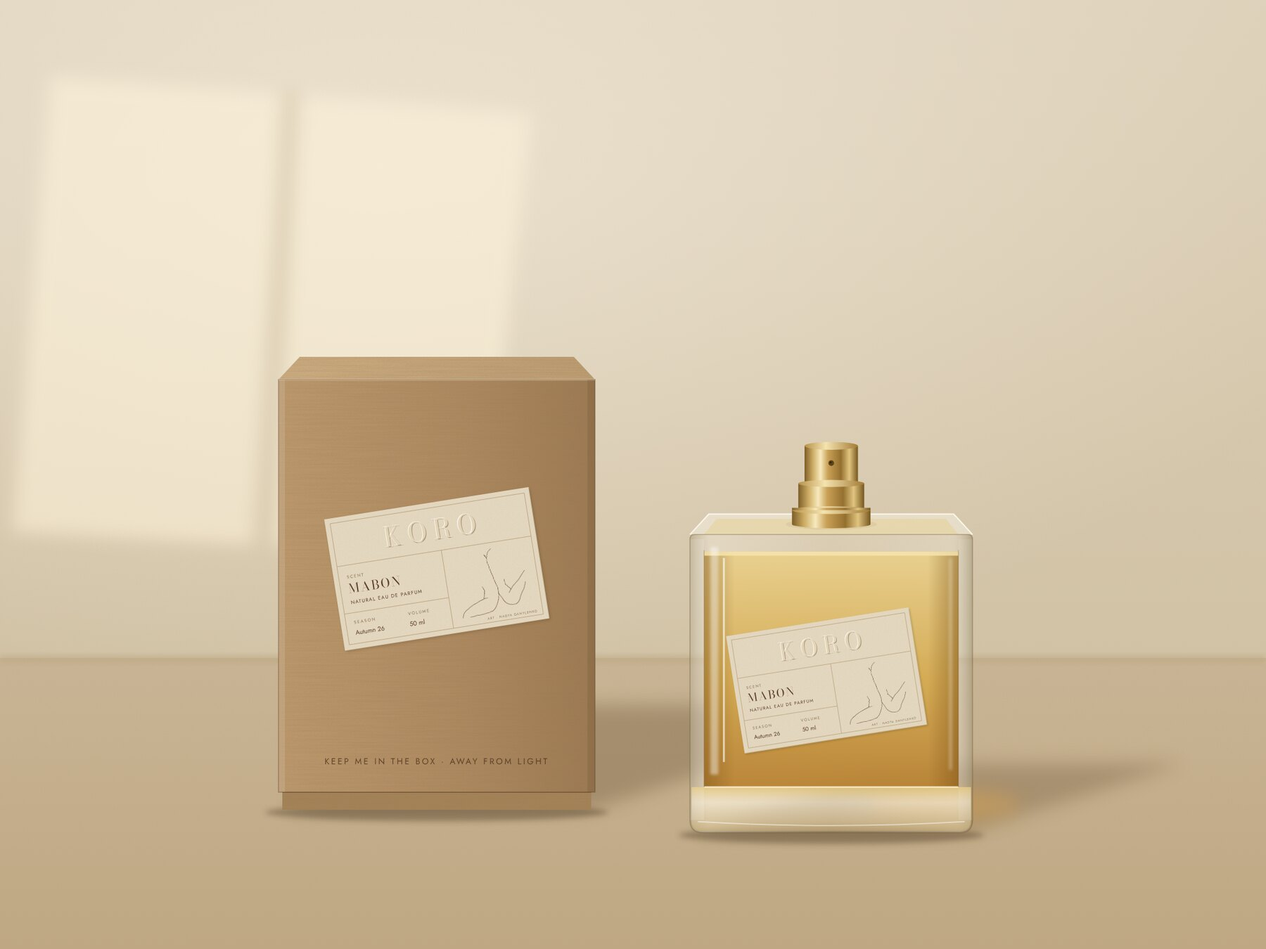
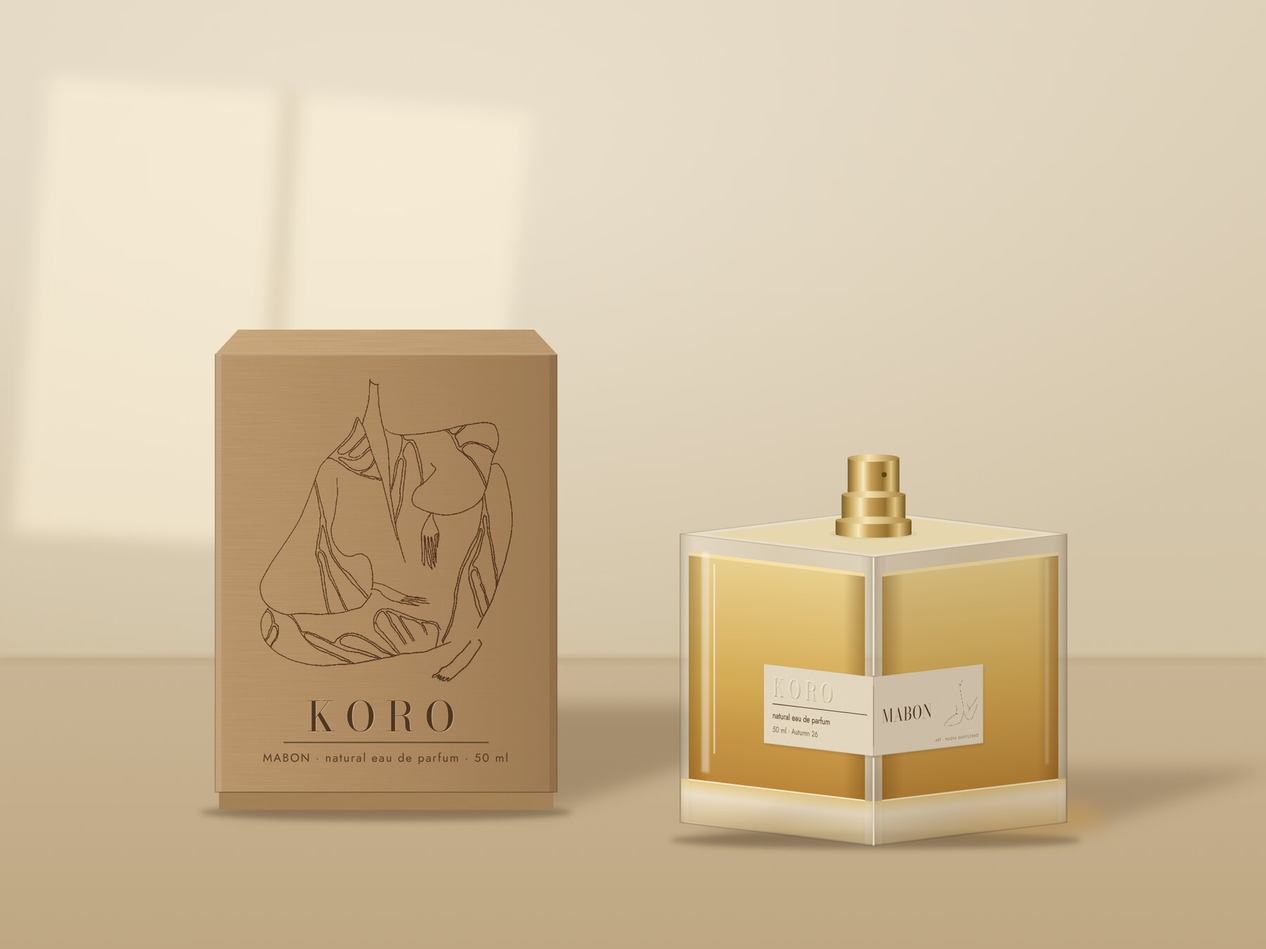
Wrap the sticker around the bottle's corner and print Nadya's art on the box
Following Nasomatto: the square bottle is shown corner-on with a straight
sticker folded around the front edge (KORO and details on one face, scent
name and Nadya's line on the other). The kraft box lid carries Nadya's
drawing in brown ink with KORO beneath. Replaces the angled sticker.

Claude-Session: https://claude.ai/code/session_01LqzMwEUPk3cGfVNeK7XBCw

Changed region(s): [[0.1556, 0.3422, 0.4978, 0.8711], [0.5289, 0.4667, 0.9644, 0.9022], [0.3422, 0.4356, 0.3733, 0.4667]]

diff --git a/design/packaging/render.html b/design/packaging/render.html
@@ -82,81 +82,152 @@ const DEFS = `
   <filter id="hl" x="-50%" y="-50%" width="200%" height="200%"><feGaussianBlur stdDeviation="1.6"/></filter>
 </defs>`;
 
-// ---------- label (beige, embossed KORO, Nadya line art) ----------
-// drawn in a 280 x 180 box, scaled by caller
-function label(scent = "MABON", vol = "50 ml") {
-  const W = 280, H = 180, ink = "#5a3d2b", rule = "#b7a07a";
-  const emb = (txt, x, y, size, ls) => `
-    <text x="${x + .9}" y="${y + 1.1}" text-anchor="middle" class="didot" font-size="${size}" letter-spacing="${ls}" fill="#7d6644" fill-opacity=".55">${txt}</text>
-    <text x="${x - .8}" y="${y - .8}" text-anchor="middle" class="didot" font-size="${size}" letter-spacing="${ls}" fill="#fffaf0" fill-opacity=".95">${txt}</text>
-    <text x="${x}" y="${y}" text-anchor="middle" class="didot" font-size="${size}" letter-spacing="${ls}" fill="#e2d4b8">${txt}</text>`;
+// ---------- corner-wrapped sticker halves (Nasomatto-style placement) ----------
+// each half is 170 x 88 in real face units; the left half ends exactly at the bottle's front corner
+const INK = "#4a3020", RULE = "#a48c66";
+function emb(txt, x, y, size, ls, anchor = "start") {
   return `
-  <g>
-    <rect x="1.6" y="2.2" width="${W}" height="${H}" fill="#4f3c22" opacity=".26" filter="url(#hl)"/>
-    <rect width="${W}" height="${H}" fill="#e9ddc6" filter="url(#paper)"/>
-    <rect x="7" y="7" width="${W - 14}" height="${H - 14}" fill="none" stroke="${rule}" stroke-width=".7"/>
-    ${emb("KORO", W / 2 + 3, 50, 36, 8)}
-    <line x1="7" y1="66" x2="${W - 7}" y2="66" stroke="${rule}" stroke-width=".7"/>
-    <line x1="150" y1="66" x2="150" y2="${H - 7}" stroke="${rule}" stroke-width=".7"/>
-    <text x="18" y="84" class="sans" font-size="5.8" letter-spacing="1.3" fill="#8b7656">SCENT</text>
-    <text x="18" y="104" class="didot" font-size="17" letter-spacing="2" fill="${ink}">${scent}</text>
-    <text x="18" y="119" class="sans" font-size="6.6" letter-spacing="1" fill="${ink}">NATURAL EAU DE PARFUM</text>
-    <line x1="7" y1="131" x2="150" y2="131" stroke="${rule}" stroke-width=".7"/>
-    <text x="18" y="146" class="sans" font-size="5.8" letter-spacing="1.3" fill="#8b7656">SEASON</text>
-    <text x="18" y="161" class="sans" font-size="8.5" fill="${ink}">Autumn 26</text>
-    <text x="92" y="146" class="sans" font-size="5.8" letter-spacing="1.3" fill="#8b7656">VOLUME</text>
-    <text x="92" y="161" class="sans" font-size="8.5" fill="${ink}">${vol}</text>
-    <image href="line-art.png" x="158" y="74" width="106" height="88" preserveAspectRatio="xMidYMid meet" opacity=".85"/>
-    <text x="${W - 14}" y="${H - 11}" text-anchor="end" class="sans" font-size="4.4" letter-spacing=".8" fill="#8b7656">ART · NADYA DANYLENKO</text>
+    <text x="${x + .8}" y="${y + 1}" text-anchor="${anchor}" class="didot" font-size="${size}" letter-spacing="${ls}" fill="#7d6644" fill-opacity=".55">${txt}</text>
+    <text x="${x - .7}" y="${y - .7}" text-anchor="${anchor}" class="didot" font-size="${size}" letter-spacing="${ls}" fill="#fffaf0">${txt}</text>
+    <text x="${x}" y="${y}" text-anchor="${anchor}" class="didot" font-size="${size}" letter-spacing="${ls}" fill="#e0d2b5">${txt}</text>`;
+}
+const SW = 204, SH = 104, SY = -222;   // sticker half size + top position on the face
+function stickerLeft(vol = "50 ml") {
+  return `<g>
+    <rect x="1.4" y="2" width="${SW}" height="${SH}" fill="#4f3c22" opacity=".22" filter="url(#hl)"/>
+    <rect width="${SW}" height="${SH}" fill="#e9ddc6" filter="url(#paper)"/>
+    ${emb("KORO", 16, 40, 32, 7)}
+    <line x1="16" y1="51" x2="${SW - 12}" y2="51" stroke="${INK}" stroke-width="1"/>
+    <text x="16" y="70" class="sans" font-size="11.5" fill="${INK}">natural eau de parfum</text>
+    <text x="16" y="88" class="sans" font-size="10.5" fill="#7c6547">${vol} · Autumn 26</text>
+  </g>`;
+}
+function stickerRight(scent = "MABON") {
+  return `<g>
+    <rect x="1.4" y="2" width="${SW}" height="${SH}" fill="#4f3c22" opacity=".22" filter="url(#hl)"/>
+    <rect width="${SW}" height="${SH}" fill="#e9ddc6" filter="url(#paper)"/>
+    <line x1="0" y1="12" x2="0" y2="${SH - 12}" stroke="${RULE}" stroke-width=".8"/>
+    <text x="16" y="62" class="didot" font-size="24" letter-spacing="1" fill="${INK}">${scent}</text>
+    <image href="line-art.png" x="132" y="12" width="62" height="70" preserveAspectRatio="xMidYMid meet" opacity=".92"/>
+    <text x="${SW - 8}" y="${SH - 9}" text-anchor="end" class="sans" font-size="5.6" letter-spacing=".7" fill="#8b7656">ART · NADYA DANYLENKO</text>
   </g>`;
 }
 
-// ---------- the square bottle (Koro's existing shape, no lid) ----------
-// local origin: bottom-left of the glass front face. W 360, H 380.
-function bottle(x, y, s, scent = "MABON") {
-  const W = 360, H = 380, T = 26, I = 24, base = 58, wall = 18;
-  const cx = W / 2, topY = -H - T / 2;
+// ---------- the square bottle, turned so a corner faces the viewer ----------
+// real face 360 wide x 380 high (KORO's existing bottle); E = how much of the top we see
+const E = .12, R2 = Math.SQRT1_2;
+function glassFace(side) {
+  const W = 360, H = 380, base = 58, wall = 16;
+  const shade = side === "right";
   return `
-  <g transform="translate(${x} ${y}) scale(${s})">
-    <!-- glass body -->
-    <path d="M0 ${-H + 6} Q0 ${-H} 6 ${-H} H${W - 6} Q${W} ${-H} ${W} ${-H + 6} V-16 Q${W} 0 ${W - 16} 0 H16 Q0 0 0 -16 Z" fill="url(#glassFront)"/>
-    <!-- liquid -->
+    <rect x="0" y="${-H}" width="${W}" height="${H}" fill="url(#glassFront)"/>
     <rect x="${wall}" y="${-H + 22}" width="${W - 2 * wall}" height="${H - 22 - base}" fill="url(#liquid)" opacity=".93"/>
     <rect x="${wall}" y="${-H + 22}" width="${W - 2 * wall}" height="${H - 22 - base}" fill="url(#liquidEdge)"/>
     <rect x="${wall}" y="${-H + 22}" width="${W - 2 * wall}" height="5" fill="#f6e4ad" opacity=".85"/>
-    <!-- thick glass base -->
-    <path d="M2 ${-base} H${W - 2} V-16 Q${W - 2} -2 ${W - 16} -2 H16 Q2 -2 2 -16 Z" fill="url(#glassBase)"/>
+    <rect x="2" y="${-base}" width="${W - 4}" height="${base - 2}" fill="url(#glassBase)"/>
     <path d="M${wall} ${-base} H${W - wall}" stroke="#fff6dc" stroke-width="2" opacity=".8"/>
-    <path d="M10 -14 Q${cx} -4 ${W - 10} -14" stroke="#fff" stroke-width="1.4" fill="none" opacity=".5"/>
-    <!-- side walls -->
-    <rect x="0" y="${-H + 6}" width="${wall}" height="${H - 22}" fill="#fff" opacity=".14"/>
-    <rect x="${W - wall}" y="${-H + 6}" width="${wall}" height="${H - 22}" fill="#fff" opacity=".1"/>
-    <line x1="${wall}" y1="${-H + 20}" x2="${wall}" y2="${-base}" stroke="#7a5a2a" stroke-width="1" opacity=".35"/>
-    <line x1="${W - wall}" y1="${-H + 20}" x2="${W - wall}" y2="${-base}" stroke="#7a5a2a" stroke-width="1" opacity=".35"/>
-    <!-- top face (glass shoulder) -->
-    <path d="M0 ${-H} L${I} ${-H - T} H${W - I} L${W} ${-H} Z" fill="#f4eee0" opacity=".55"/>
-    <path d="M${wall} ${-H} L${I + 10} ${-H - T + 6} H${W - I - 10} L${W - wall} ${-H}" fill="#e7cf8c" opacity=".45"/>
-    <path d="M0 ${-H} L${I} ${-H - T} H${W - I} L${W} ${-H}" fill="none" stroke="#fffaf0" stroke-width="1.6" opacity=".9"/>
-    <!-- highlights -->
-    <rect x="26" y="${-H + 16}" width="10" height="${H - 90}" fill="#fff" opacity=".42" filter="url(#hl)"/>
-    <rect x="42" y="${-H + 30}" width="2.5" height="${H - 120}" fill="#fff" opacity=".6"/>
-    <rect x="${W - 30}" y="${-H + 30}" width="4" height="${H - 110}" fill="#fff" opacity=".28" filter="url(#hl)"/>
-    <!-- label (on the outer face, above the glass reflections) -->
-    <g transform="translate(${cx - 6} ${-H + 186}) rotate(-9) scale(.84) translate(-140 -90)">${label(scent)}</g>
+    <rect x="0" y="${-H}" width="${wall}" height="${H}" fill="#fff" opacity=".12"/>
+    <rect x="${W - wall}" y="${-H}" width="${wall}" height="${H}" fill="#fff" opacity=".12"/>
+    ${shade ? "" : `<rect x="40" y="${-H + 20}" width="14" height="${H - 90}" fill="#fff" opacity=".4" filter="url(#hl)"/>
+      <rect x="62" y="${-H + 34}" width="3" height="${H - 130}" fill="#fff" opacity=".55"/>`}
+    ${shade ? `<rect x="${W - 40}" y="${-H + 30}" width="6" height="${H - 110}" fill="#fff" opacity=".25" filter="url(#hl)"/>` : ""}
+    ${side === "left" ? `<g transform="translate(${W - SW} ${SY})">${stickerLeft()}</g>` : `<g transform="translate(0 ${SY})">${stickerRight()}</g>`}
+    ${shade ? `<rect x="0" y="${-H}" width="${W}" height="${H}" fill="#4a2e0c" opacity=".14"/>` : ""}`;
+}
+function bottle(x, y, s) {
+  const H = 380, L = 180 * Math.SQRT2, F = E * L;
+  const top = -H;
+  return `
+  <g transform="translate(${x} ${y}) scale(${s})">
+    <g transform="matrix(1 ${E} 0 1 ${-L} 0) scale(${R2} 1)">${glassFace("left")}</g>
+    <g transform="matrix(1 ${-E} 0 1 0 ${F}) scale(${R2} 1)">${glassFace("right")}</g>
+    <!-- top face -->
+    <path d="M${-L} ${top} L0 ${top + F} L${L} ${top} L0 ${top - F} Z" fill="#f4eee0" opacity=".55"/>
+    <path d="M${-L * .88} ${top} L0 ${top + F * .88} L${L * .88} ${top} L0 ${top - F * .88} Z" fill="#e7cf8c" opacity=".45"/>
+    <path d="M${-L} ${top} L0 ${top - F} L${L} ${top}" fill="none" stroke="#fffaf0" stroke-width="1.4" opacity=".8"/>
+    <!-- front corner edge -->
+    <line x1="0" y1="${top + F}" x2="0" y2="${SY + F - 2}" stroke="#fffaf0" stroke-width="2.4" opacity=".75"/>
+    <line x1="0" y1="${SY + SH + F + 2}" x2="0" y2="${F}" stroke="#fffaf0" stroke-width="2.4" opacity=".75"/>
+    <line x1="0" y1="${SY + F}" x2="0" y2="${SY + SH + F}" stroke="#8b7656" stroke-width=".8" opacity=".35"/>
     <!-- outline -->
-    <path d="M0 ${-H + 6} Q0 ${-H} 6 ${-H} H${W - 6} Q${W} ${-H} ${W} ${-H + 6} V-16 Q${W} 0 ${W - 16} 0 H16 Q0 0 0 -16 Z" fill="none" stroke="#6b5530" stroke-opacity=".38" stroke-width="1.3"/>
-    <!-- neck + gold crimp collar + sprayer (no overcap) -->
+    <path d="M${-L} 0 L0 ${F} L${L} 0 V${top} L0 ${top - F} L${-L} ${top} Z" fill="none" stroke="#6b5530" stroke-opacity=".38" stroke-width="1.3"/>
+    <path d="M${-L} ${top} L0 ${top + F} L${L} ${top}" fill="none" stroke="#6b5530" stroke-opacity=".3" stroke-width="1"/>
+    ${sprayer(0, top)}
+  </g>`;
+}
+function sprayer(cx, topY) {
+  return `
     <ellipse cx="${cx}" cy="${topY}" rx="58" ry="7" fill="#d9c79c" opacity=".6"/>
     <rect x="${cx - 50}" y="${topY - 18}" width="100" height="18" fill="url(#gold)"/>
     <ellipse cx="${cx}" cy="${topY}" rx="50" ry="5" fill="url(#gold)"/>
     <rect x="${cx - 42}" y="${topY - 52}" width="84" height="36" fill="url(#gold)"/>
     <ellipse cx="${cx}" cy="${topY - 18}" rx="50" ry="5" fill="url(#goldTop)"/>
-    <rect x="${cx - 50}" y="${topY - 21}" width="100" height="3" fill="url(#gold)"/>
     <rect x="${cx - 34}" y="${topY - 100}" width="68" height="50" fill="url(#gold)"/>
     <ellipse cx="${cx}" cy="${topY - 52}" rx="42" ry="4.5" fill="url(#goldTop)"/>
     <ellipse cx="${cx}" cy="${topY - 100}" rx="34" ry="5" fill="url(#goldTop)"/>
-    <circle cx="${cx}" cy="${topY - 78}" r="3.6" fill="#5b4318"/>
-    <circle cx="${cx - .8}" cy="${topY - 78.8}" r="1.2" fill="#2e210b"/>
+    <circle cx="${cx + 14}" cy="${topY - 78}" r="3.4" fill="#5b4318"/>`;
+}
+
+// ---------- rigid kraft box, front-on, Nadya's drawing printed on the lid ----------
+function boxFace(w, h, scent = "MABON") {
+  const artW = w * .74, artH = artW * 715 / 595;
+  return `
+    <image href="embrace-art.png" x="${(w - artW) / 2}" y="${-h + h * .07}" width="${artW}" height="${artH}" opacity=".78" style="mix-blend-mode:multiply"/>
+    <text x="${w / 2 + .6}" y="${-h * .17 + .8}" text-anchor="middle" class="didot" font-size="${w * .12}" letter-spacing="${w * .03}" fill="#fff0d6" opacity=".35">KORO</text>
+    <text x="${w / 2}" y="${-h * .17}" text-anchor="middle" class="didot" font-size="${w * .12}" letter-spacing="${w * .03}" fill="#3b2716" opacity=".88">KORO</text>
+    <line x1="${w * .2}" y1="${-h * .17 + 9}" x2="${w * .8}" y2="${-h * .17 + 9}" stroke="#3b2716" stroke-opacity=".7"/>
+    <text x="${w / 2}" y="${-h * .17 + 24}" text-anchor="middle" class="sans" font-size="${w * .034}" letter-spacing="1" fill="#3b2716" opacity=".8">${scent} · natural eau de parfum · 50 ml</text>`;
+}
+function closedBox(x, y, w, h, scent = "MABON") {
+  const t = w * .072, i = w * .067, baseBand = 14;
+  return `
+  <g transform="translate(${x} ${y})">
+    <rect x="3" y="${-baseBand}" width="${w - 6}" height="${baseBand}" fill="#a98458" filter="url(#kraft)"/>
+    <line x1="3" y1="${-baseBand}" x2="${w - 3}" y2="${-baseBand}" stroke="#5e4428" stroke-opacity=".5"/>
+    <rect x="0" y="${-h}" width="${w}" height="${h - baseBand}" fill="url(#kraftFront)" filter="url(#kraft)"/>
+    <path d="M0 ${-h} L${i} ${-h - t} H${w - i} L${w} ${-h} Z" fill="url(#kraftTop)" filter="url(#kraft)"/>
+    <path d="M0 ${-h} H${w}" stroke="#f0dcbc" stroke-width="1.2" opacity=".8"/>
+    <rect x="0" y="${-h}" width="${w}" height="${h - baseBand}" fill="none" stroke="#5e4428" stroke-opacity=".35"/>
+    <rect x="0" y="${-h}" width="5" height="${h - baseBand}" fill="#fff" opacity=".12"/>
+    <rect x="${w - 6}" y="${-h}" width="6" height="${h - baseBand}" fill="#3d2a14" opacity=".12"/>
+    ${boxFace(w, h + 6, scent)}
+  </g>`;
+}
+function lid(x, y, w, h, scent) {
+  const t = w * .072, i = w * .067;
+  return `
+  <g transform="translate(${x} ${y})">
+    <rect x="0" y="${-h}" width="${w}" height="${h}" fill="url(#kraftFront)" filter="url(#kraft)"/>
+    <path d="M0 ${-h} L${i} ${-h - t} H${w - i} L${w} ${-h} Z" fill="url(#kraftTop)" filter="url(#kraft)"/>
+    <rect x="0" y="${-h}" width="${w}" height="${h}" fill="none" stroke="#5e4428" stroke-opacity=".35"/>
+    <rect x="${w - 6}" y="${-h}" width="6" height="${h}" fill="#3d2a14" opacity=".12"/>
+    ${boxFace(w, h - 8, scent)}
+  </g>`;
+}
+
+// ---------- open base tray, corner-on to match the bottle ----------
+// a = half the tray's inner side (real units), h = wall height
+function trayBack(x, y, s, a, h) {
+  const L = a * Math.SQRT2, F = E * L, top = -h;
+  return `
+  <g transform="translate(${x} ${y}) scale(${s})">
+    <path d="M${-L} ${top} L0 ${top + F} L${L} ${top} L0 ${top - F} Z" fill="#c9a77a" filter="url(#kraft)"/>
+    <path d="M${-L * .95} ${top} L0 ${top + F * .95} L${L * .95} ${top} L0 ${top - F * .95} Z" fill="url(#kraftInside)"/>
+  </g>`;
+}
+function trayFront(x, y, s, a, h) {
+  const L = a * Math.SQRT2, F = E * L, wReal = 2 * a;
+  const face = (shade) => `
+    <rect x="0" y="${-h}" width="${wReal}" height="${h}" fill="url(#kraftFront)" filter="url(#kraft)"/>
+    <path d="M0 ${-h} H${wReal}" stroke="#f0dcbc" stroke-width="1.6" opacity=".85"/>
+    ${shade ? `<rect x="0" y="${-h}" width="${wReal}" height="${h}" fill="#3d2a14" opacity=".16"/>` : ""}`;
+  return `
+  <g transform="translate(${x} ${y}) scale(${s})">
+    <g transform="matrix(1 ${E} 0 1 ${-L} 0) scale(${R2} 1)">${face(false)}
+      <text x="${wReal / 2}" y="${-h / 2 + 7}" text-anchor="middle" class="didot" font-size="22" letter-spacing="7" fill="#5e4428" opacity=".55">KORO</text></g>
+    <g transform="matrix(1 ${-E} 0 1 0 ${F}) scale(${R2} 1)">${face(true)}</g>
+    <path d="M${-L} 0 L0 ${F} L${L} 0 V${-h} L0 ${-h + F} L${-L} ${-h} Z" fill="none" stroke="#5e4428" stroke-opacity=".4"/>
+    <line x1="0" y1="${-h + F}" x2="0" y2="${F}" stroke="#f0dcbc" stroke-opacity=".6"/>
   </g>`;
 }
 
@@ -164,66 +235,6 @@ function bottle(x, y, s, scent = "MABON") {
 function floorShadow(x0, x1, y, len, depth = 1) {
   return `<path d="M${x0} ${y} L${x1} ${y} L${x1 + len} ${y - len * .32} L${x0 + len * .9} ${y - len * .32} Z" fill="#5a4022" opacity="${.3 * depth}" filter="url(#soft)"/>
           <ellipse cx="${(x0 + x1) / 2}" cy="${y + 2}" rx="${(x1 - x0) * .56}" ry="7" fill="#3d2a14" opacity=".35" filter="url(#soft2)"/>`;
-}
-
-// ---------- rigid kraft box, front-on (lift-off full-telescope lid) ----------
-function closedBox(x, y, w, h, scent = "MABON") {
-  const t = w * .072, i = w * .067, baseBand = 14;
-  const ls = (w - 60) / 280;
-  return `
-  <g transform="translate(${x} ${y})">
-    <!-- base band peeking under the lid -->
-    <rect x="3" y="${-baseBand}" width="${w - 6}" height="${baseBand}" fill="#a98458" filter="url(#kraft)"/>
-    <line x1="3" y1="${-baseBand}" x2="${w - 3}" y2="${-baseBand}" stroke="#5e4428" stroke-opacity=".5"/>
-    <!-- lid front -->
-    <rect x="0" y="${-h}" width="${w}" height="${h - baseBand}" fill="url(#kraftFront)" filter="url(#kraft)"/>
-    <!-- lid top -->
-    <path d="M0 ${-h} L${i} ${-h - t} H${w - i} L${w} ${-h} Z" fill="url(#kraftTop)" filter="url(#kraft)"/>
-    <path d="M0 ${-h} H${w}" stroke="#f0dcbc" stroke-width="1.2" opacity=".8"/>
-    <!-- edges -->
-    <rect x="0" y="${-h}" width="${w}" height="${h - baseBand}" fill="none" stroke="#5e4428" stroke-opacity=".35"/>
-    <rect x="0" y="${-h}" width="5" height="${h - baseBand}" fill="#fff" opacity=".12"/>
-    <rect x="${w - 6}" y="${-h}" width="6" height="${h - baseBand}" fill="#3d2a14" opacity=".12"/>
-    <!-- label -->
-    <g transform="translate(${w / 2} ${-h + h * .44}) rotate(-9) scale(${ls * .86}) translate(-140 -90)">${label(scent)}</g>
-    <!-- printed note -->
-    <text x="${w / 2}" y="${-baseBand - 22}" text-anchor="middle" class="sans" font-size="${7 * ls + 2}" letter-spacing="1.4" fill="#4a321c" opacity=".78">KEEP ME IN THE BOX · AWAY FROM LIGHT</text>
-  </g>`;
-}
-
-// lid shown alone (for the open scene), leaning
-function lid(x, y, w, h, rot, scent) {
-  const t = w * .072, i = w * .067, ls = (w - 60) / 280;
-  return `
-  <g transform="translate(${x} ${y}) rotate(${rot})">
-    <rect x="0" y="${-h}" width="${w}" height="${h}" fill="url(#kraftFront)" filter="url(#kraft)"/>
-    <path d="M0 ${-h} L${i} ${-h - t} H${w - i} L${w} ${-h} Z" fill="url(#kraftTop)" filter="url(#kraft)"/>
-    <rect x="0" y="${-h}" width="${w}" height="${h}" fill="none" stroke="#5e4428" stroke-opacity=".35"/>
-    <rect x="${w - 6}" y="${-h}" width="6" height="${h}" fill="#3d2a14" opacity=".12"/>
-    <g transform="translate(${w / 2} ${-h + h * .46}) rotate(-9) scale(${ls * .86}) translate(-140 -90)">${label(scent)}</g>
-  </g>`;
-}
-
-// open base tray: back part (drawn before the bottle) and front part (after)
-function trayBack(x, y, w, h) {
-  const t = w * .072, i = w * .067, wall = 5;
-  return `
-  <g transform="translate(${x} ${y})">
-    <path d="M0 ${-h} L${i} ${-h - t} H${w - i} L${w} ${-h} Z" fill="#c9a77a" filter="url(#kraft)"/>
-    <path d="M${wall} ${-h} L${i + wall * .8} ${-h - t + wall * .6} H${w - i - wall * .8} L${w - wall} ${-h} Z" fill="url(#kraftInside)"/>
-  </g>`;
-}
-function trayFront(x, y, w, h) {
-  return `
-  <g transform="translate(${x} ${y})">
-    <rect x="0" y="${-h}" width="${w}" height="${h}" fill="url(#kraftFront)" filter="url(#kraft)"/>
-    <path d="M0 ${-h} H${w}" stroke="#f0dcbc" stroke-width="1.4" opacity=".85"/>
-    <rect x="0" y="${-h}" width="${w}" height="${h}" fill="none" stroke="#5e4428" stroke-opacity=".35"/>
-    <rect x="${w - 6}" y="${-h}" width="6" height="${h}" fill="#3d2a14" opacity=".12"/>
-    <text x="${w / 2}" y="${-h / 2 + 4}" text-anchor="middle" class="didot" font-size="15" letter-spacing="5"
-      fill="#a17c52" stroke="#7d5c38" stroke-width=".3" opacity=".9">KORO</text>
-    <text x="${w / 2 + .7}" y="${-h / 2 + 4.8}" text-anchor="middle" class="didot" font-size="15" letter-spacing="5" fill="#5e4428" opacity=".25">KORO</text>
-  </g>`;
 }
 
 function room(W, H, horizon) {
@@ -245,50 +256,48 @@ function sun(x, y, w, h) {
 
 // ---------- scenes ----------
 function scene1() {
-  const W = 800, H = 800, hz = 540, s = 1, bx = 220, by = 660;
-  const silhouette = `M0 -380 H360 V0 H0 Z M130 -480 H230 V-393 H130 Z`;
+  const W = 800, H = 800, hz = 540, s = .92, bx = 400, by = 640;
+  const L = 180 * Math.SQRT2 * s;
   return `<svg class="scene" id="s1" xmlns="http://www.w3.org/2000/svg" viewBox="0 0 ${W} ${H}" width="1600" height="1600">${DEFS}
     ${room(W, H, hz)}
     ${sun(60, 70, 300, 330)}
-    ${floorShadow(bx + 6, bx + 354, by, 240)}
-    <ellipse cx="${bx + 330}" cy="${by - 30}" rx="90" ry="20" fill="#e2a74a" opacity=".38" filter="url(#soft)"/>
+    ${floorShadow(bx - L + 20, bx + L - 10, by + 14, 230)}
+    <ellipse cx="${bx + L * .8}" cy="${by - 6}" rx="90" ry="20" fill="#e2a74a" opacity=".38" filter="url(#soft)"/>
     ${bottle(bx, by, s)}
   </svg>`;
 }
 
 function scene2() {
   const W = 1000, H = 750, hz = 520;
-  const s = .62, bw = 360 * s;           // bottle 223 wide
-  const boxW = 250, boxH = 340;          // fits the bottle + sprayer with clearance
-  const boxX = 220, by = 640, botX = 545;
+  const s = .6, L = 180 * Math.SQRT2 * s;
+  const boxW = 270, boxH = 360, boxX = 170, by = 640, botX = 690;
   return `<svg class="scene" id="s2" xmlns="http://www.w3.org/2000/svg" viewBox="0 0 ${W} ${H}" width="2000" height="1500">${DEFS}
     ${room(W, H, hz)}
     ${sun(40, 60, 380, 380)}
     ${floorShadow(boxX + 4, boxX + boxW - 4, by, 260)}
-    ${floorShadow(botX + 4, botX + bw - 4, by + 18, 170, .9)}
-    <ellipse cx="${botX + bw * .9}" cy="${by - 4}" rx="60" ry="13" fill="#e2a74a" opacity=".38" filter="url(#soft)"/>
+    ${floorShadow(botX - L + 10, botX + L - 6, by + 22, 170, .9)}
+    <ellipse cx="${botX + L * .8}" cy="${by + 6}" rx="60" ry="13" fill="#e2a74a" opacity=".38" filter="url(#soft)"/>
     ${closedBox(boxX, by, boxW, boxH)}
-    ${bottle(botX, by + 18, s)}
+    ${bottle(botX, by + 10, s)}
   </svg>`;
 }
 
 function scene3() {
   const W = 1000, H = 750, hz = 520;
-  const s = .62, bw = 360 * s;
-  const boxW = 250, boxH = 340, trayH = 66, by = 650, trayX = 470;
-  const lidX = 190, lidY = 610;
-  const bxIn = trayX + (boxW - bw) / 2, byIn = by - 6;
+  const s = .6, a = 196, trayH = 72, tx = 650, ty = 650;
+  const L = a * Math.SQRT2 * s;
+  const lidX = 140, lidY = 600, boxW = 270, boxH = 360;
   return `<svg class="scene" id="s3" xmlns="http://www.w3.org/2000/svg" viewBox="0 0 ${W} ${H}" width="2000" height="1500">${DEFS}
     ${room(W, H, hz)}
     ${sun(30, 50, 380, 380)}
-    <g transform="translate(${lidX} ${lidY}) scale(.92) translate(${-lidX} ${-lidY})">
+    <g transform="translate(${lidX} ${lidY}) scale(.9) translate(${-lidX} ${-lidY})">
       ${floorShadow(lidX + 6, lidX + boxW - 6, lidY, 250)}
-      ${lid(lidX, lidY, boxW, boxH, 0, "MABON")}
+      ${lid(lidX, lidY, boxW, boxH, "MABON")}
     </g>
-    ${floorShadow(trayX + 4, trayX + boxW - 4, by, 220)}
-    ${trayBack(trayX, by, boxW, trayH)}
-    ${bottle(bxIn, byIn, s)}
-    ${trayFront(trayX, by, boxW, trayH)}
+    ${floorShadow(tx - L + 10, tx + L - 6, ty + 16, 220)}
+    ${trayBack(tx, ty, s, a, trayH)}
+    ${bottle(tx, ty - 6 * s, s)}
+    ${trayFront(tx, ty, s, a, trayH)}
   </svg>`;
 }
 

diff --git a/index.html b/index.html
@@ -195,7 +195,7 @@
     <!-- Featured seasonal scent -->
     <section class="feature" id="mabon">
       <figure class="feature-media reveal">
-        <img src="assets/img/koro-bottle.jpg" alt="The square KORO bottle filled with amber MABON, with a beige label embossed with KORO and a line drawing by Nadya Danylenko" width="1400" height="1400" loading="lazy">
+        <img src="assets/img/koro-bottle.jpg" alt="The square KORO bottle turned to its corner, filled with amber MABON, with a beige sticker wrapped around the corner" width="1400" height="1400" loading="lazy">
       </figure>
       <div class="feature-copy reveal">
         <p class="eyebrow">The scent of the season</p>
@@ -226,22 +226,23 @@
       <div class="section-head reveal">
         <p class="eyebrow">The bottle &amp; the box</p>
         <h2 class="display display--md">Our square bottle, newly dressed</h2>
-        <p>We kept the heavy square bottle our perfumes have always lived in, with its thick walls and deep glass base. The label is new: a small beige sticker set at a slight angle, as if placed by hand, with KORO embossed into it and a single line by Nadya Danylenko.</p>
+        <p>We kept the heavy square bottle our perfumes have always lived in, with its thick walls and deep glass base. The label is new: a beige sticker folded around the bottle’s front corner, with KORO embossed on one side and the scent name and a line by Nadya Danylenko on the other.</p>
       </div>
 
       <figure class="pack-wide reveal">
-        <img src="assets/img/koro-box-closed.jpg" alt="A rigid kraft box with a beige KORO label beside the square MABON bottle" width="1800" height="1350" loading="lazy">
+        <img src="assets/img/koro-box-closed.jpg" alt="A rigid kraft box printed with a line drawing by Nadya Danylenko beside the square MABON bottle" width="1800" height="1350" loading="lazy">
       </figure>
 
       <div class="pack-row">
         <figure class="pack-media reveal">
-          <img src="assets/img/koro-box-open.jpg" alt="The kraft box opened: the lid stands to one side and the bottle sits upright in the base" width="1800" height="1350" loading="lazy">
+          <img src="assets/img/koro-box-open.jpg" alt="The kraft box opened: the printed lid stands to one side and the bottle sits in the base" width="1800" height="1350" loading="lazy">
         </figure>
         <div class="pack-copy reveal">
           <h3 class="display display--sm">A box that keeps the light out</h3>
           <p>Natural perfume changes in sunlight. Every bottle arrives in a rigid kraft box with a lift-off lid, made to live on your dressing table, so the perfume can go back into the dark between wears.</p>
           <ul class="pack-list">
             <li><span class="cap">Board</span>Opaque rigid kraft that keeps daylight off the perfume</li>
+            <li><span class="cap">Print</span>Nadya Danylenko’s drawing in brown ink on the lid</li>
             <li><span class="cap">Fit</span>A fitted base holds the square bottle upright</li>
             <li><span class="cap">Lid</span>Lifts off and settles back with a soft close</li>
             <li><span class="cap">Material</span>Paper and board only, nothing plastic</li>

diff --git a/design/packaging/README.md b/design/packaging/README.md
@@ -2,11 +2,11 @@
 
 Vector source for the Autumn 26 bottle and box images in `assets/img/koro-*.jpg`.
 
-- **Bottle**: KORO's existing square bottle (shape unchanged), shown without the overcap: gold crimp collar and sprayer.
-- **Label**: small beige sticker applied at a 9° tilt (same on bottle and box), beige paper, blind-embossed KORO, scent / season / volume grid, line drawing by Nadya Danylenko (`line-art.png`).
-- **Box**: rigid kraft, two-piece with a lift-off lid, sized to hold the bottle upright and keep it out of daylight.
+- **Bottle**: KORO's existing square bottle (shape unchanged), shown corner-on without the overcap: gold crimp collar and sprayer.
+- **Label**: beige sticker folded around the front corner (Nasomatto-style placement). Left face: blind-embossed KORO, rule, "natural eau de parfum", volume and season. Right face: scent name and a line drawing by Nadya Danylenko (`line-art.png`).
+- **Box**: rigid kraft, two-piece with a lift-off lid, Nadya's drawing (`embrace-art.png`) printed in brown ink with KORO beneath; keeps the bottle out of daylight.
 
-To change the scent name or volume, edit `label()` / `bottle()` calls in `render.html`, then render:
+To change the scent name or volume, edit `stickerLeft()` / `stickerRight()` / `boxFace()` in `render.html`, then render:
 
 ```sh
 NODE_PATH=$(npm root -g) node render.js "$PWD"   # writes s1.png, s2.png, s3.png
